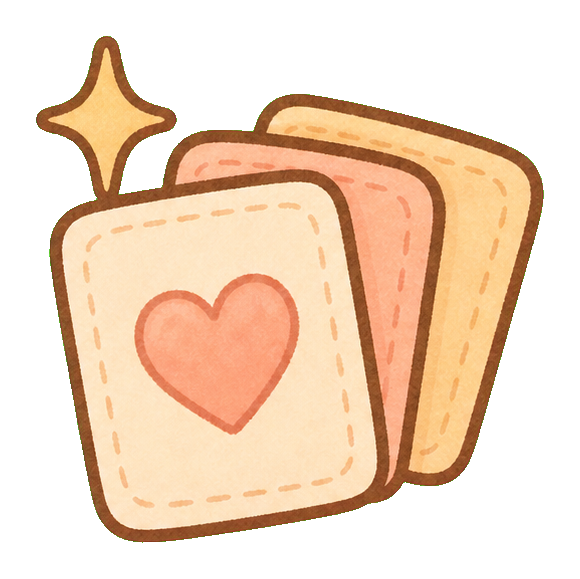
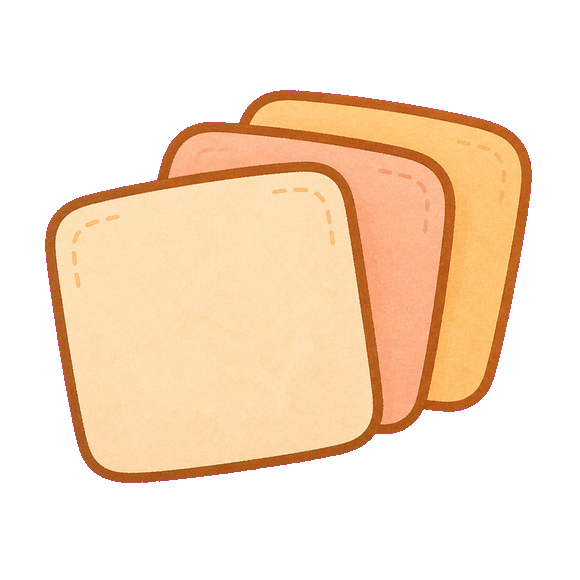
design: 펫홈 레벨 배지와 탭 아이콘 조정

diff --git a/src/App.css b/src/App.css
@@ -5126,36 +5126,38 @@
   width: min(74%, 264px);
   max-width: 264px;
   max-height: 302px;
-  margin-bottom: 18px;
+  margin-bottom: 54px;
   animation: none;
   transform: none;
   filter: none;
 }
 
 .pet-stage-level {
-  width: min(196px, calc(100% - 92px));
-  min-height: 28px;
+  width: min(210px, calc(100% - 104px));
+  min-height: 30px;
   display: grid;
-  grid-template-columns: auto minmax(72px, 1fr) auto;
+  grid-template-columns: auto minmax(76px, 1fr) auto;
   align-items: center;
-  gap: 8px;
+  gap: 9px;
   position: absolute;
-  left: 14px;
-  top: 18px;
+  left: 50%;
+  bottom: 16px;
+  transform: translateX(-50%);
   z-index: 6;
-  padding: 6px 9px;
-  border: 1px solid rgba(188, 126, 72, 0.24);
+  padding: 7px 10px;
+  border: 1px solid rgba(201, 139, 82, 0.28);
   border-radius: 999px;
-  color: #7a4e2d;
-  background: rgba(255, 250, 244, 0.82);
-  backdrop-filter: blur(8px);
+  color: #825632;
+  background: rgba(255, 250, 244, 0.9);
+  box-shadow: 0 6px 18px rgba(132, 85, 42, 0.08);
+  backdrop-filter: blur(6px);
 }
 
 .pet-stage-level span,
 .pet-stage-level b {
-  color: #7a4e2d;
+  color: #825632;
   font-size: 10px;
-  font-weight: 900;
+  font-weight: 800;
   line-height: 1;
   white-space: nowrap;
 }